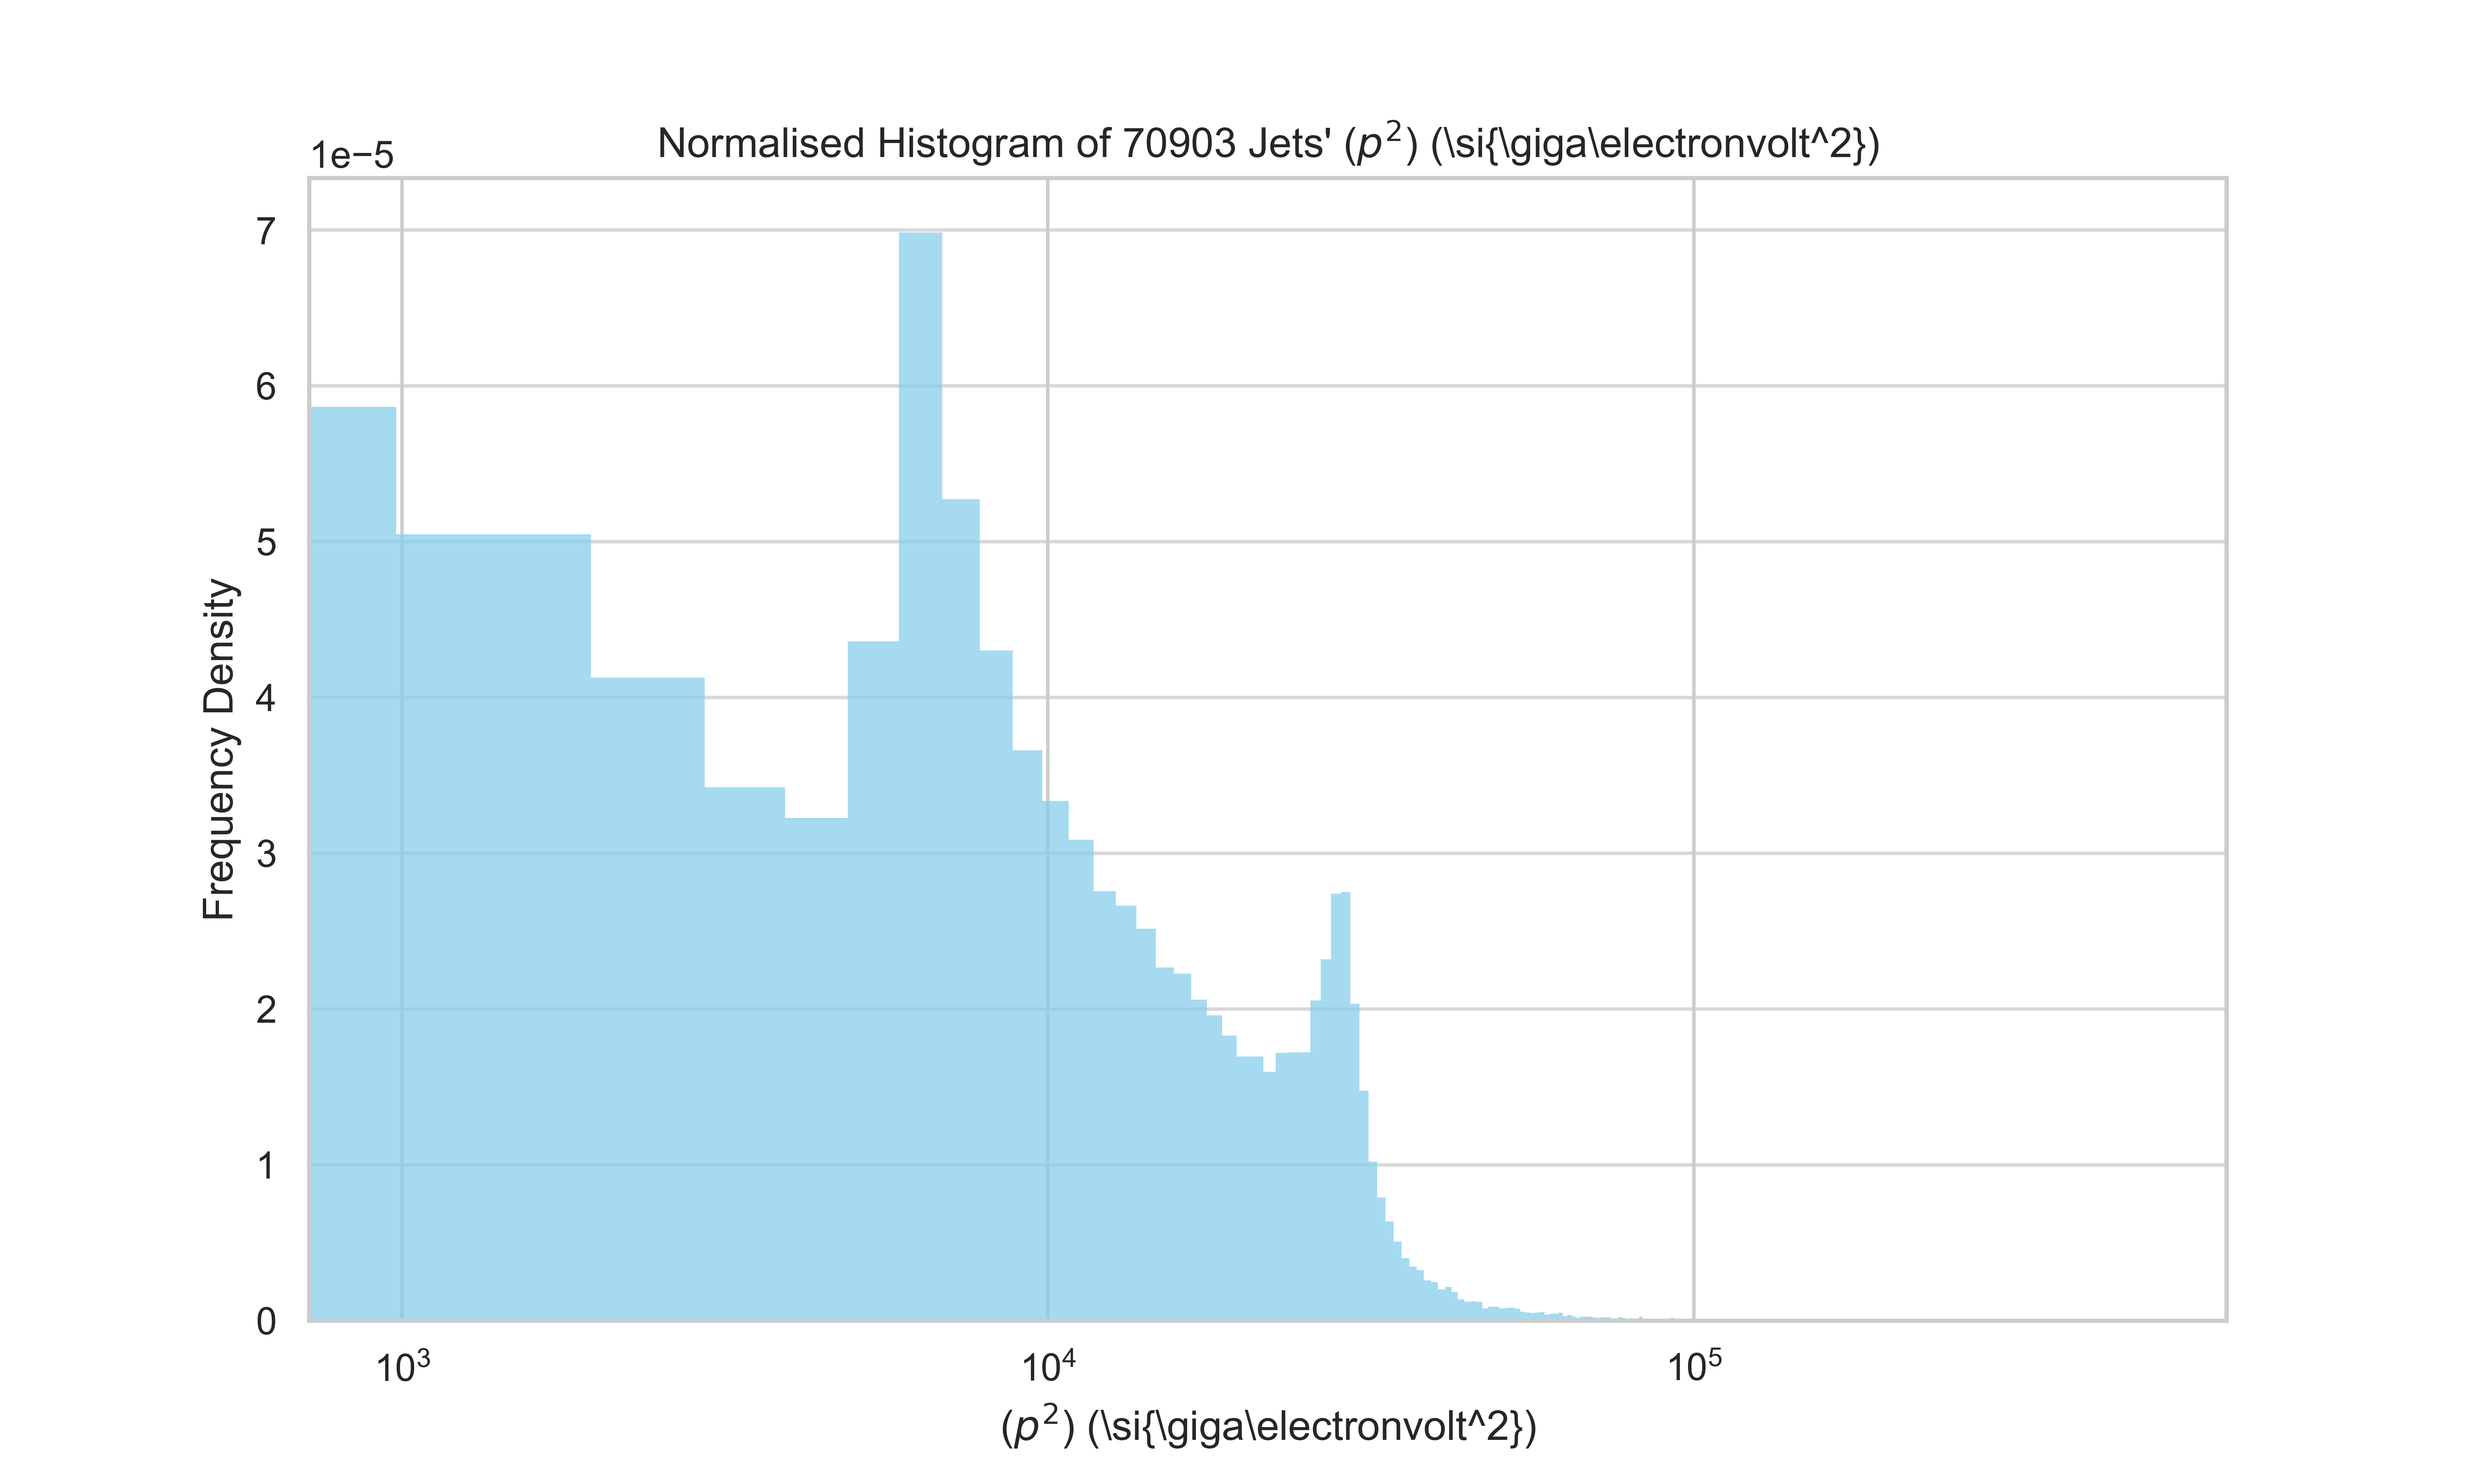
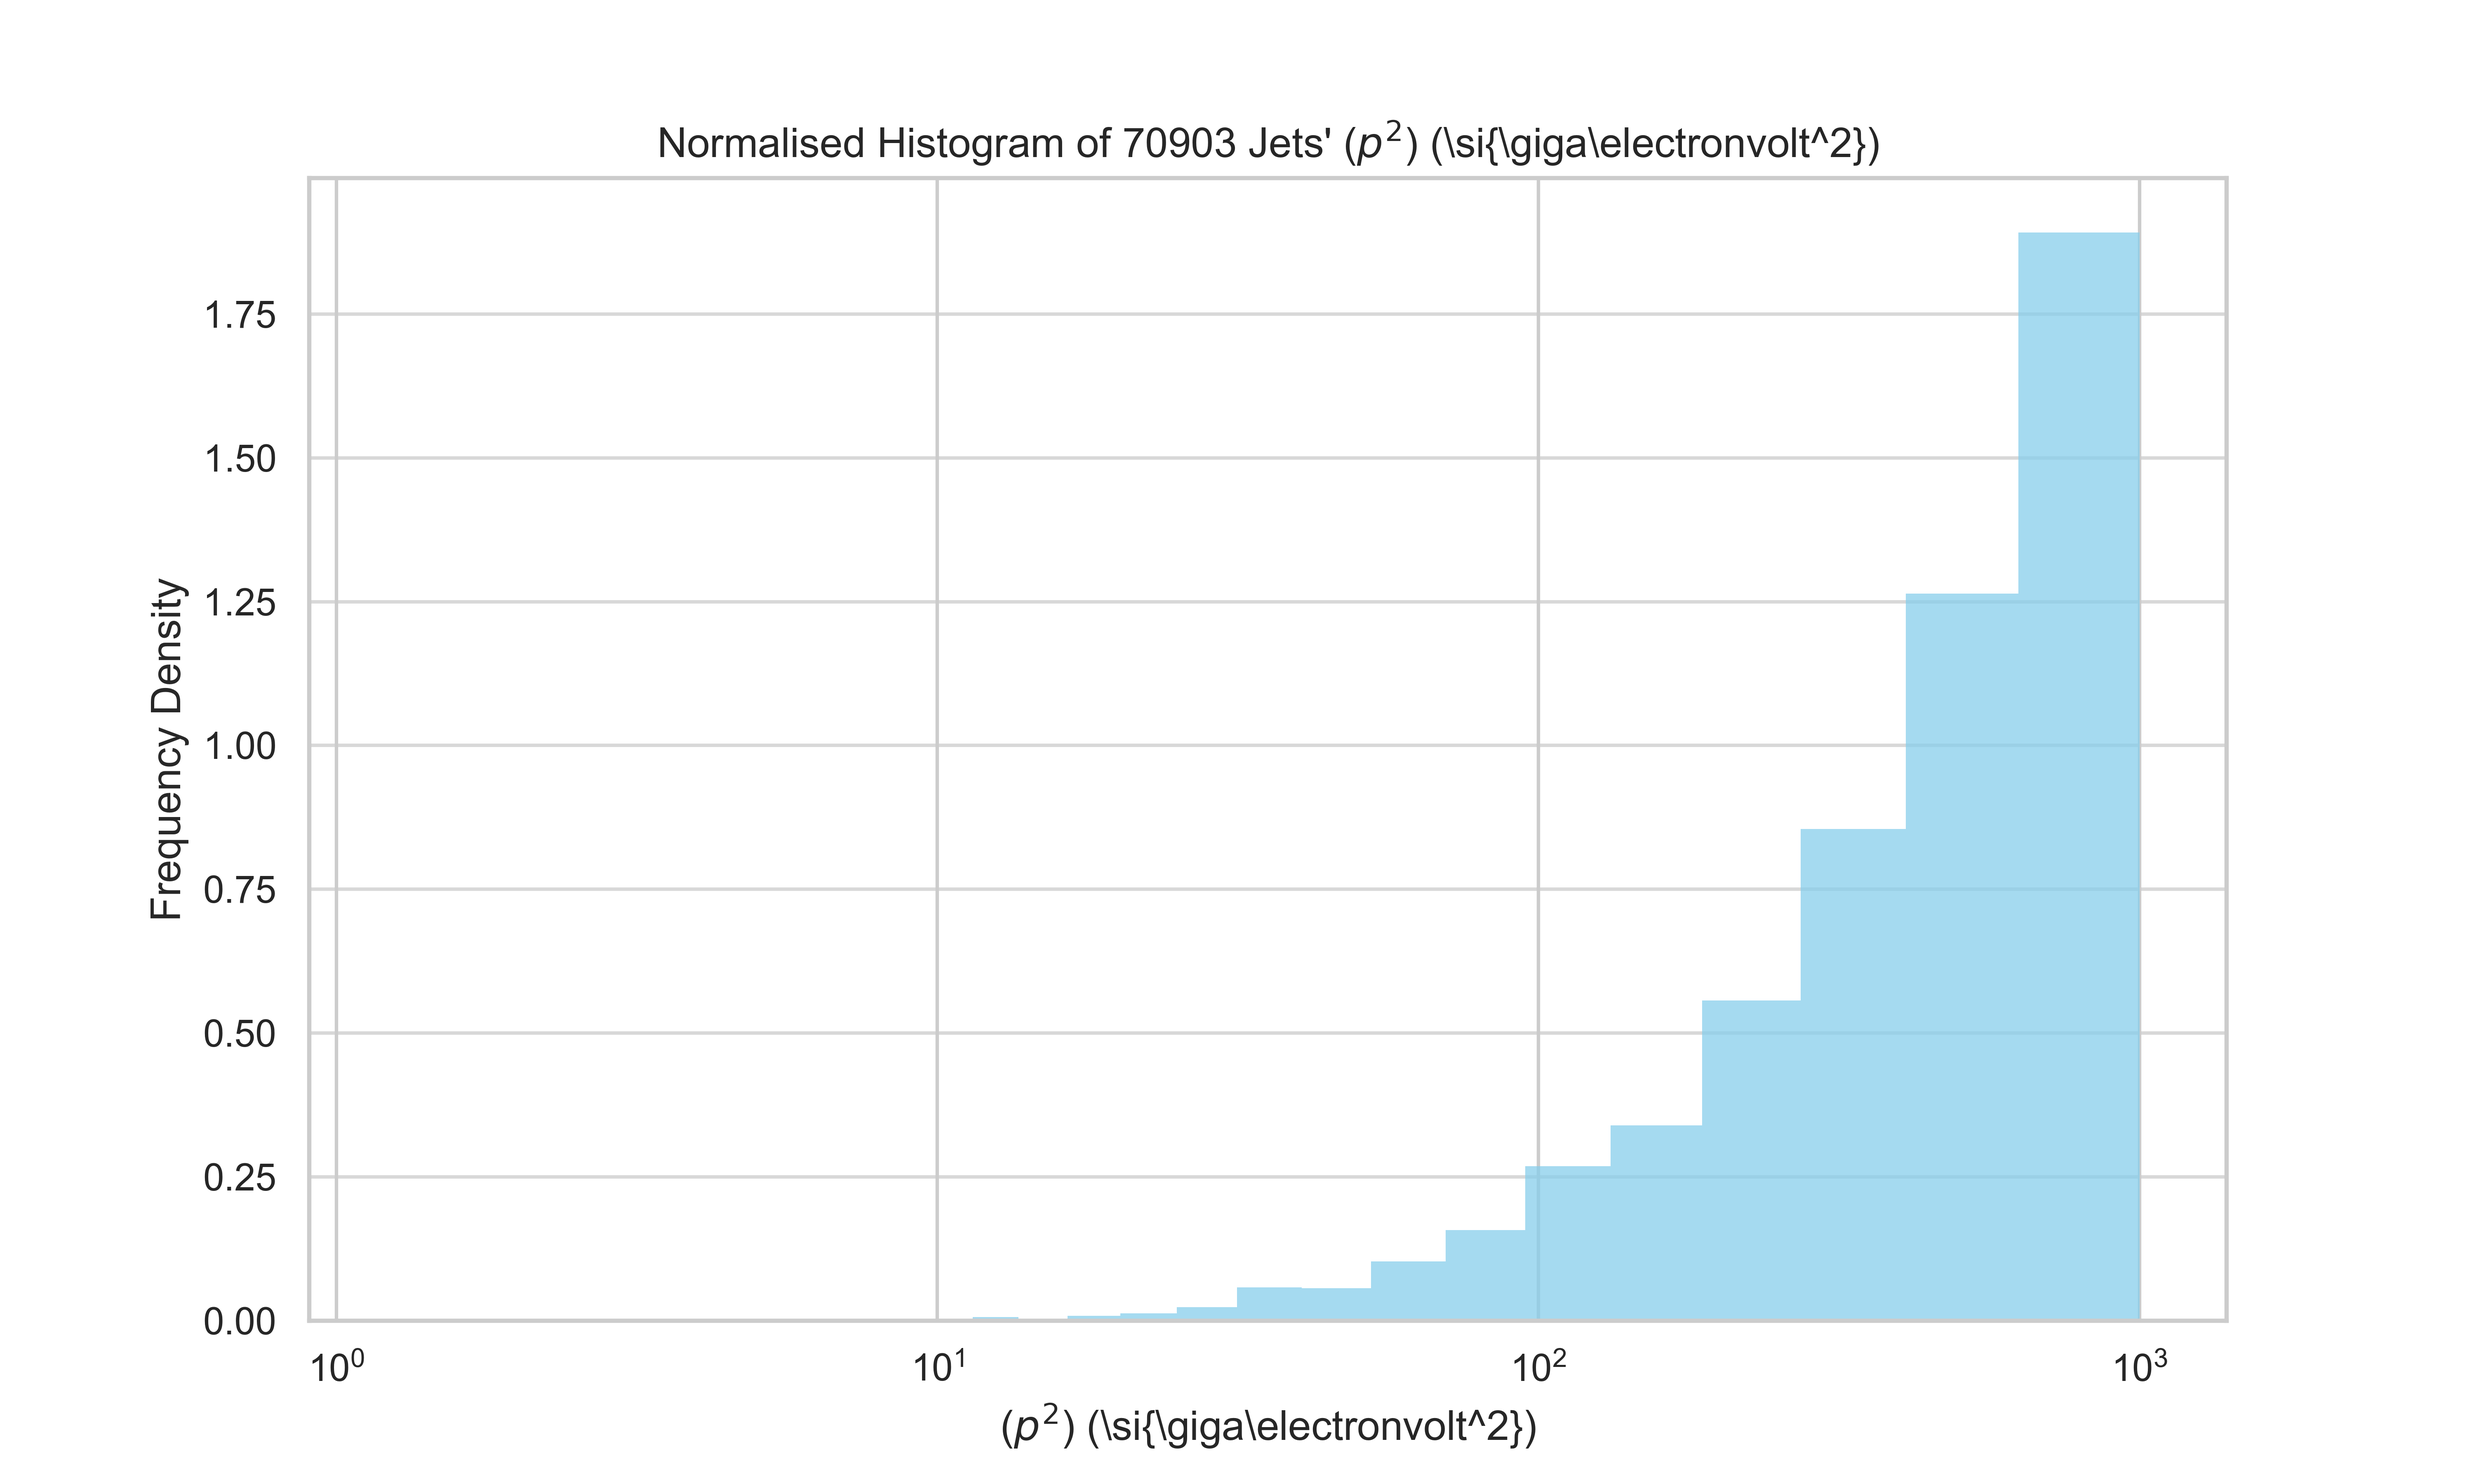
Add log bins to 12 hists (but still uneven)

diff --git a/src/main_one_time.py b/src/main_one_time.py
@@ -55,23 +55,25 @@ plot_params = {
     "stat": "density"  # Equivalent to `density=True` in plt.hist
 }
 
-def plot_1D_hist(name, data, xscale="linear", is_jet=False, plot_params=plot_params, save_path=save_path, save_filename="out"):
+def plot_1D_hist(name, data, xlog=False, is_jet=False, plot_params=plot_params, save_path=save_path, save_filename="out"):
     parjet = "Jets'" if is_jet else "Particles'"
     num = len(data)
     plt.figure(figsize=(10, 6))
+    if xlog:
+        plt.xscale("log")
+        plot_params = plot_params.copy()
+        plot_params["bins"] = np.logspace(np.log10(0.1),np.log10(3.0), 50)
     sb.histplot(data, **plot_params)
     plt.title(f"Normalised Histogram of {num} {parjet} {name}")
     plt.xlabel(name)
-    plt.xscale(xscale)
-    # plt.yscale(xscale)
     plt.ylabel("Frequency Density")
     plt.grid(axis="y", alpha=0.75)
     plt.savefig(f"{save_path}/{save_filename}.png", dpi=600)
 
 print("Plotting histograms...")
-plot_1D_hist("Momentum Magnitudes (\si{\giga\electronvolt})",           p_mag,      save_filename="p_mag",                      xscale="log")
-plot_1D_hist("Pseudorapidity $\eta$",                                   eta,        save_filename="eta",                      xscale="linear")
-plot_1D_hist("Transverse Momentum $p_T$ (\si{\giga\electronvolt})",     p_T,        save_filename="p_T",                        xscale="log")
-plot_1D_hist("($p^2$) (\si{\giga\electronvolt^2})",                     jet_p2,     save_filename="jet_p2",     is_jet=True,    xscale="log")
-plot_1D_hist("Mass (\si{\giga\electronvolt})",                          jet_mass,   save_filename="jet_mass",   is_jet=True,    xscale="linear")
+plot_1D_hist("Momentum Magnitudes (\si{\giga\electronvolt})",           p_mag,      save_filename="p_mag",                      xlog=True)
+plot_1D_hist("Pseudorapidity $\eta$",                                   eta,        save_filename="eta",                      )
+plot_1D_hist("Transverse Momentum $p_T$ (\si{\giga\electronvolt})",     p_T,        save_filename="p_T",                        xlog=True)
+plot_1D_hist("($p^2$) (\si{\giga\electronvolt^2})",                     jet_p2,     save_filename="jet_p2",     is_jet=True,    xlog=True)
+plot_1D_hist("Mass (\si{\giga\electronvolt})",                          jet_mass,   save_filename="jet_mass",   is_jet=True,    )
 print("Done.")
